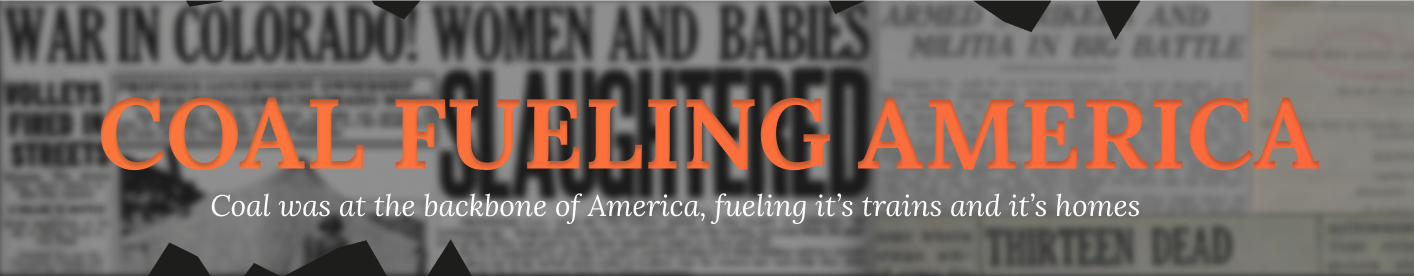
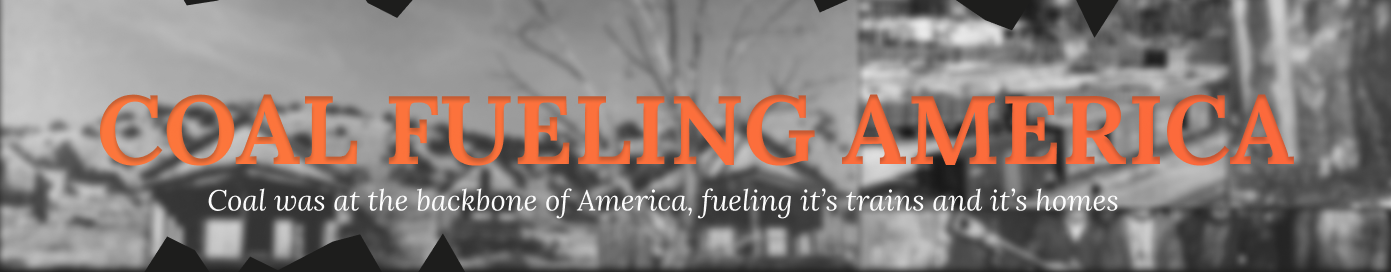
Added new headers+set groundwork for company life

diff --git a/company_life.html b/company_life.html
@@ -29,23 +29,26 @@
     <br/>
     <div class="flex justify-center row-span-full">
         <div class="px-6 py-6 inline-block align-top">
-            <img src="https://via.placeholder.com/1150x325">
+            <img src="svg/streetscene.png">
         </div>
 
         <div class="w-1/3 px-6 py-6 justify-center inline-block text-center">
         
             <p class="border-4 border-sunny font-lorabold text-white text-cbxl cb:text-4xl px-3 py-5 transition ease-in-out hover:scale-105 hover:border-pale-sunny duration-175">
-                "quote about ludlow
-                quote about ludlow
-                quote about ludlow
-                quote about ludlow
-                quote about ludlow
-                quote about ludlow
-                quote about ludlow"
+                "... a lot of the mines/had the union was getting <b>$3.25 an hour for
+                eight hours' work</b> and here this company what I was working <b>ten hours a
+                day and $2.95</b>"                
+            </p>
+            <br/>
+            <p class="border-4 border-sunny font-lorabold text-white text-cbxl cb:text-4xl px-3 py-5 transition ease-in-out hover:scale-105 hover:border-pale-sunny duration-175">
+                "Oh, terrible. Terrible. Company ... all they did is to pay you for the coal that you got out of the wall there ... and stole part
+of that ... when they should pay you for timbering and should pay
+yardage for the narrow work where you had to go certain thing"
+
                 
             </p>
             <p class="font-lorabold text-white text-cbxl cb:text-2xl px-3 py-5">
-                <i>- [INSERT PERSON HERE], [TITLE].</i>
+                <i>- 1980, Mike Livoda, former CF&I coal miner.</i>
             </p>
             <br/>
 
@@ -53,8 +56,32 @@
 
 
     </div>
+    <div class="flex justify-center row-span-full text-center bg-coal">
+        <div class="w-2/3 px-6 py-6 justify-center inline-block text-center">
+        
+            <p class="font-lorabold text-white text-cbxl cb:text-3xl px-3 py-5">
+                [filler text][filler text][filler text][filler text][filler text][filler text][filler text][filler text][filler text]
+                [filler text][filler text][filler text][filler text][filler text][filler text][filler text][filler text][filler text]
+                [filler text][filler text][filler text][filler text][filler text][filler text][filler text][filler text][filler text][filler text]
+                [filler text][filler text][filler text][filler text][filler text][filler text][filler text]
+                [filler text][filler text][filler text][filler text][filler text][filler text][filler text][filler text]
+                [filler text][filler text][filler text][filler text][filler text][filler text][filler text][filler text][filler text][filler text]
+                [filler text][filler text][filler text][filler text][filler text][filler text][filler text][filler text]
+            </p>
+            <br/>
+            <a href="company_life.html">
+                <button class="border-2 border-sunny bg-coal rounded-sm py-2 px-3 font-lorabold text-white transition ease-in-out hover:scale-105 hover:bg-sunny duration-175">COMPANY LIFE & STRIFE</button>
+            </a>
+        </div>
 
-
+        <div class="px-6 py-6 inline-block align-top transition ease-in-out hover:scale-125 duration-200 mt-4">
+            <img src="svg/ad.jpg" class="w-full h-3/4">
+            <p class="font-lorabold text-white text-cbxl cb:text-sm px-3 py-5">
+                <i>[insert caption here]</i>
+            </p>
+        </div>
+    </div>
+    
     <a href="ludlow.html">
         <button class="border-2 border-sunny bg-coal rounded-sm py-2 px-3 font-lorabold text-white transition ease-in-out hover:scale-105 hover:bg-sunny duration-175">LUDLOW MASSACRE</button>
     </a>
